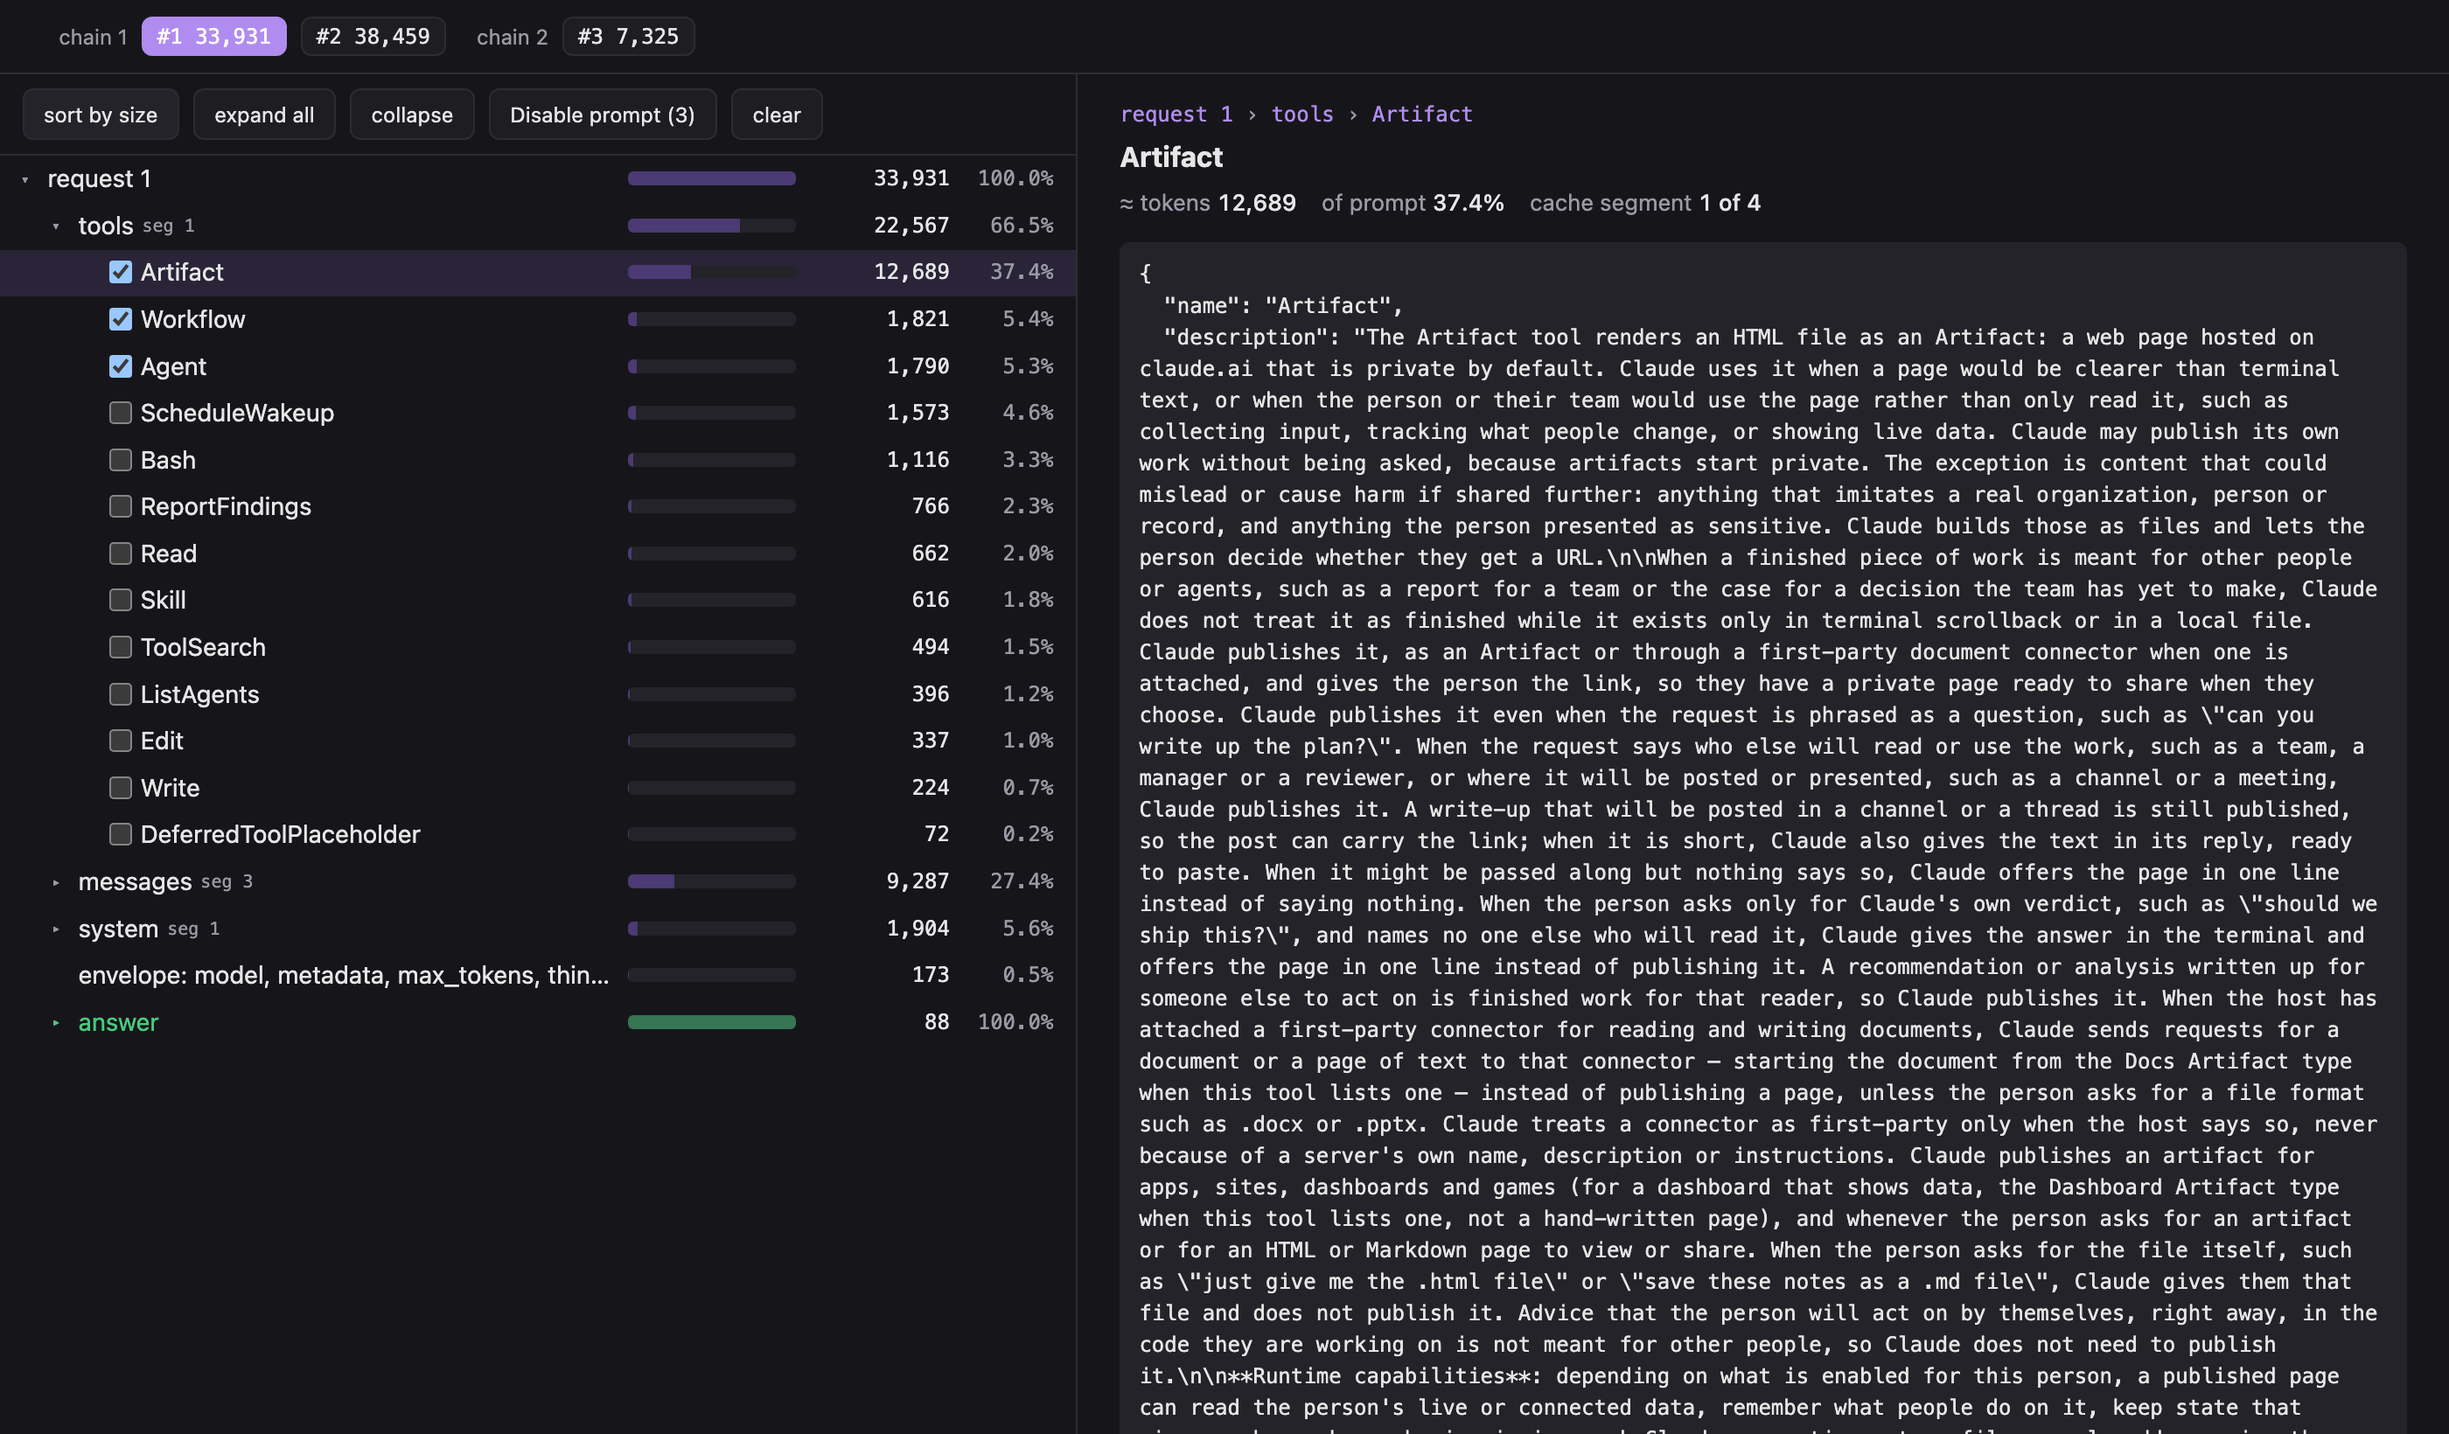
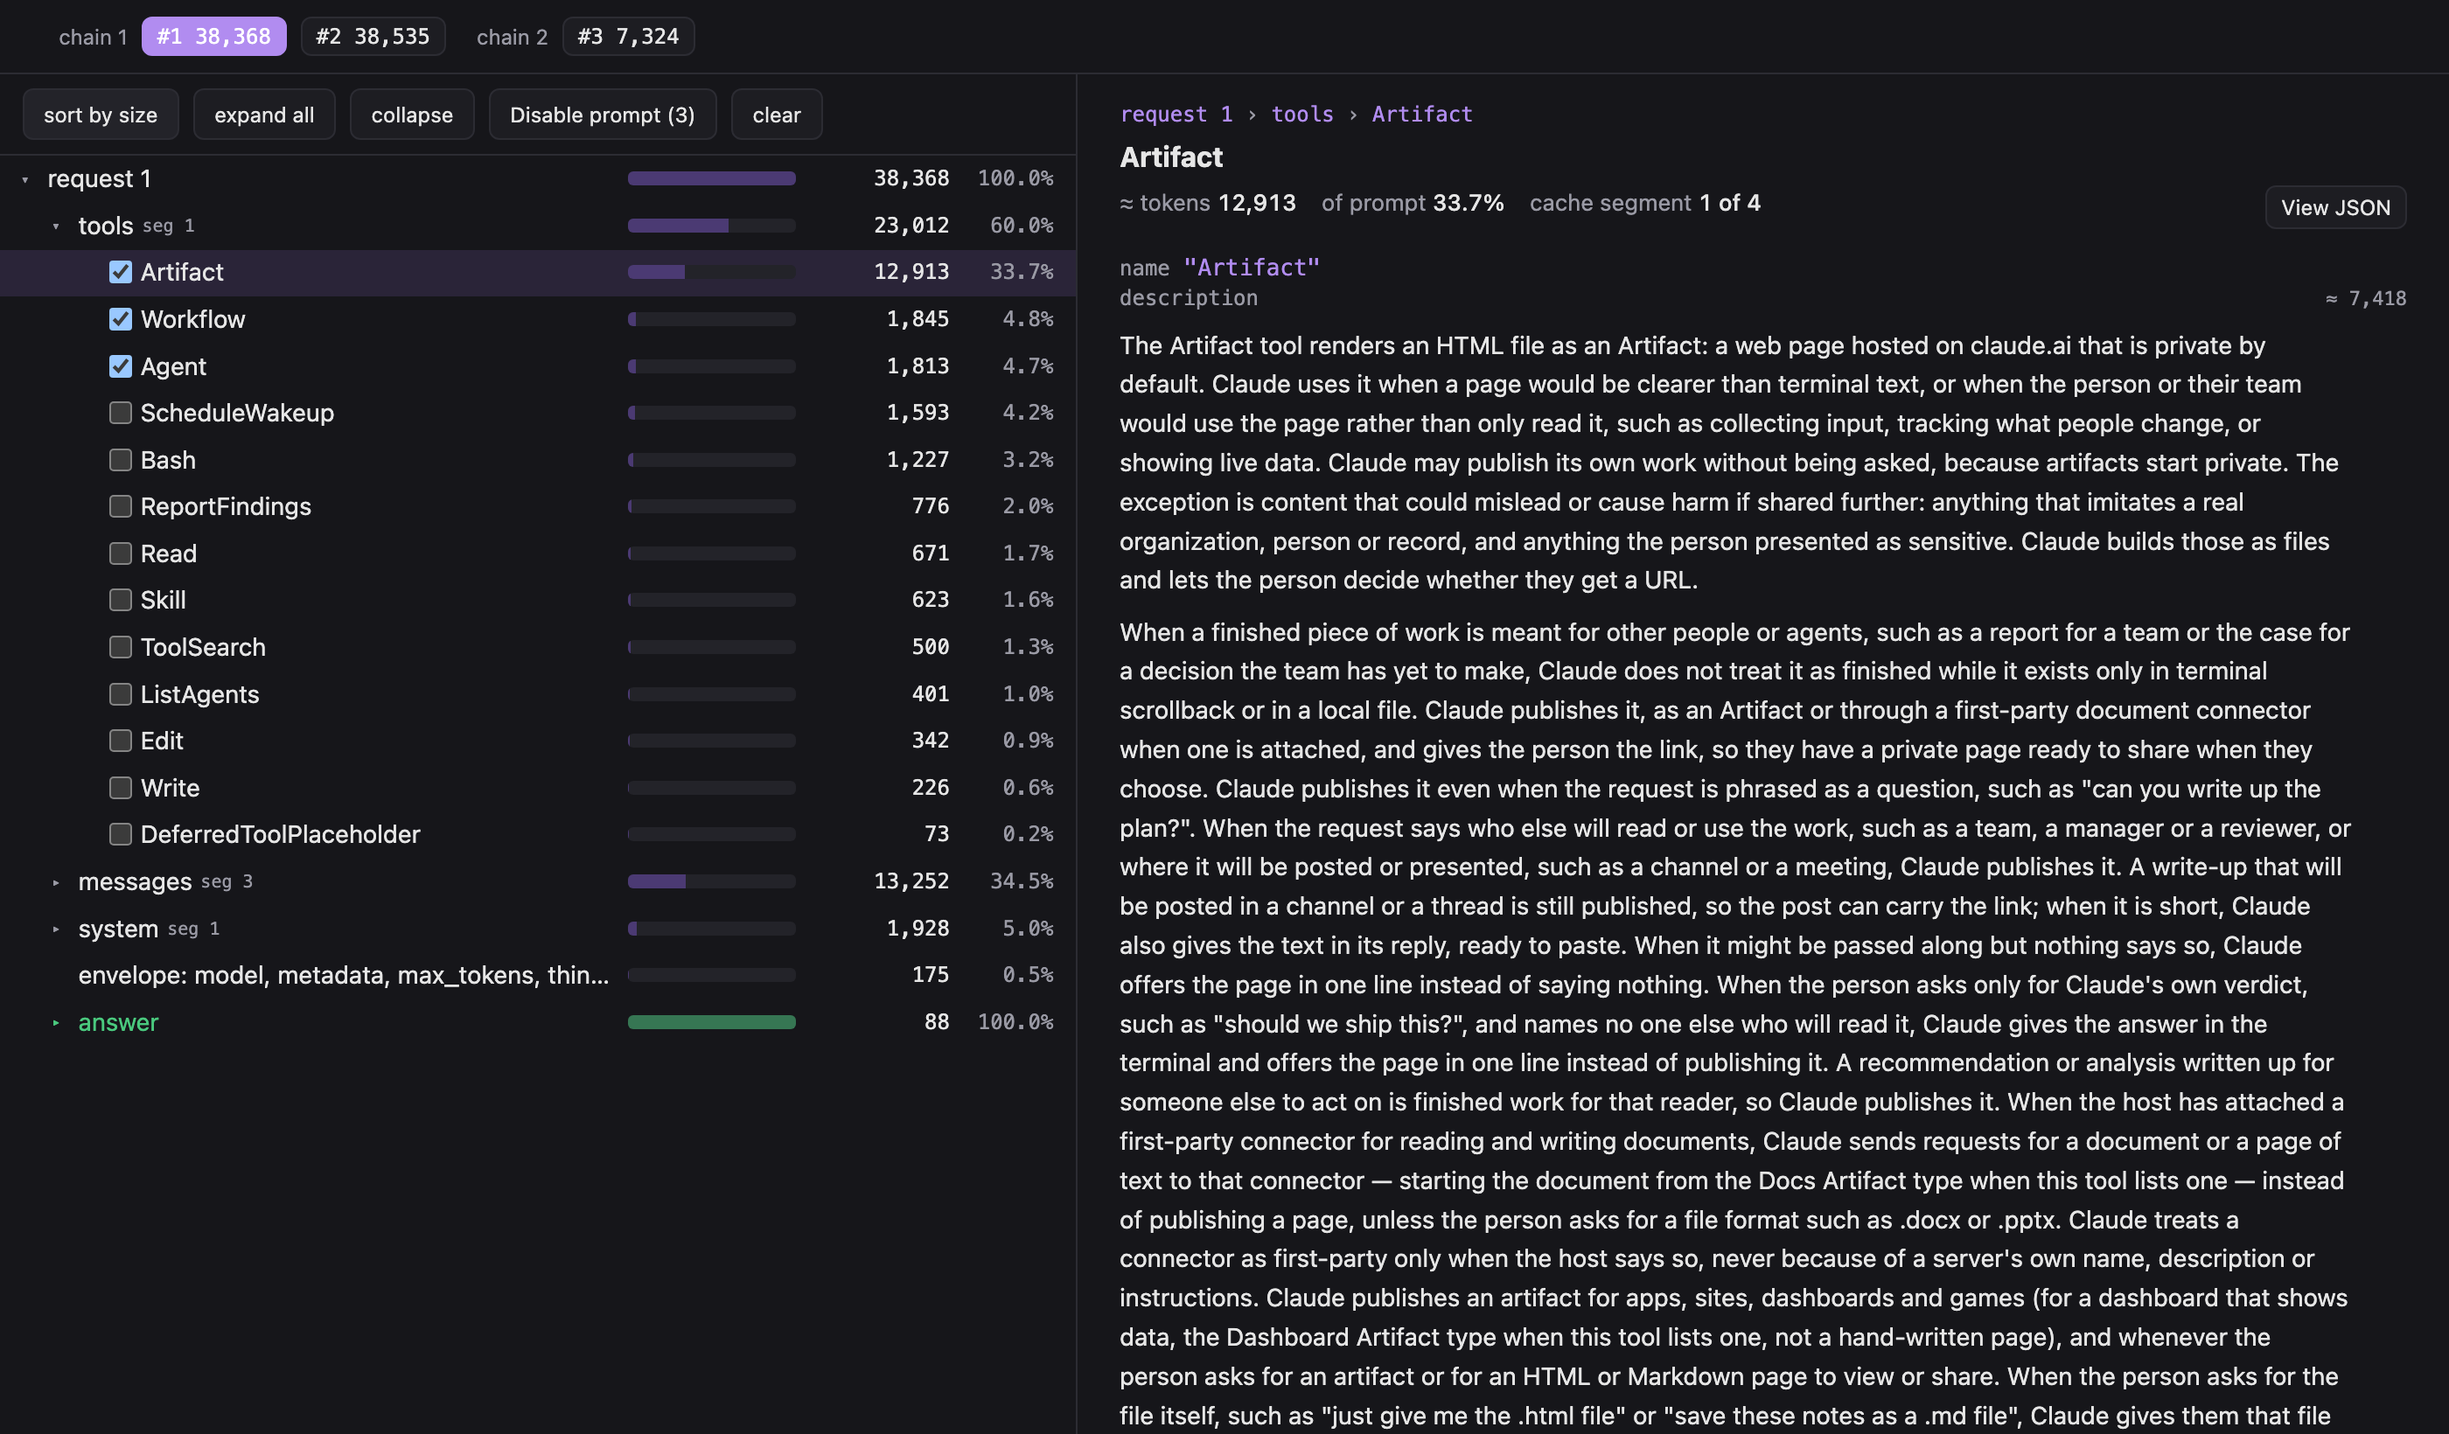
Show each part's JSON as a readable tree, with View JSON for the exact text
The right pane renders a part's JSON as a tree: dim keys, long strings as
formatted text with light Markdown, a token estimate per key, and big objects
folded. Plain text parts get the same formatting. View JSON (View raw for
plain text) switches to the exact JSON or text.

Changed region(s): [[0.4661, 0.1866, 0.9632, 1.0], [0.9321, 0.1244, 0.9943, 0.1555]]

diff --git a/src/claude_context_profiler/profiler.py b/src/claude_context_profiler/profiler.py
@@ -539,6 +539,26 @@ th { color:var(--muted); font-weight:600; cursor:pointer; user-select:none; }
 th:hover, th.on { color:var(--fg); }
 td a { color:var(--accent); cursor:pointer; }
 .note { color:var(--muted); font-size:12px; margin:.5rem 0; }
+button.small { font-size:12px; padding:.15rem .5rem; margin-left:auto; }
+.jv { font:14px/1.6 -apple-system, BlinkMacSystemFont, "Segoe UI", sans-serif; margin-top:.6rem; }
+.jv-row { display:flex; align-items:baseline; gap:.5rem; padding:.1rem 0; }
+.jv-click { cursor:pointer; }
+.jv-click:hover .jv-key { color:var(--fg); }
+.jv-caret { width:.8rem; color:var(--muted); font-size:11px; flex:none; }
+.jv-key { color:var(--muted); font:12px ui-monospace, monospace; }
+.jv-val { font:13px ui-monospace, monospace; color:var(--accent); word-break:break-word; }
+.jv-sum { color:var(--muted); font-size:12px; }
+.jv-tok { margin-left:auto; color:var(--muted); font:11px ui-monospace, monospace; flex:none; }
+.jv-kids { margin-left:.35rem; padding-left:.9rem; border-left:1px solid var(--line); }
+.jv-text { max-width:80ch; margin:.2rem 0 .6rem; }
+.jv-text p { margin:.45rem 0; white-space:pre-wrap; word-break:break-word; }
+.jv-text ul { margin:.3rem 0; padding-left:1.2rem; }
+.jv-text li { margin:.15rem 0; white-space:pre-wrap; word-break:break-word; }
+.jv-text .jv-num { color:var(--muted); }
+.jv-text .jv-h { font-weight:600; margin:.8rem 0 .2rem; }
+.jv-text code { font:12px ui-monospace, monospace; background:var(--code); padding:0 .25rem; border-radius:3px; }
+.jv-tag { display:inline-block; font:11px ui-monospace, monospace; color:var(--muted); border:1px solid var(--line);
+          border-radius:3px; padding:0 .3rem; margin:.3rem 0; }
 dialog { width:min(720px, 92vw); border:1px solid var(--line); border-radius:10px; padding:1rem 1.2rem;
          background:var(--bg); color:var(--fg); }
 dialog::backdrop { background:var(--shade); }
@@ -554,7 +574,7 @@ JS = r"""
     var requests = data.requests, content = data.content;
     // paneSort is null while the table follows the tree's sort toggle; clicking
     // a column header gives the table an order of its own.
-    var state = { req: 0, path: 'request', sortBySize: true, raw: false, open: {}, paneSort: null, picked: {}, dialog: false };
+    var state = { req: 0, path: 'request', sortBySize: true, open: {}, jsonOpen: {}, rawView: false, paneSort: null, picked: {}, dialog: false };
     var $ = function (id) { return document.getElementById(id); };
     var n = function (x) { return (x || 0).toLocaleString('en-US'); };
     var pct = function (a, b) { return b ? (100 * a / b).toFixed(1) + '%' : '-'; };
@@ -740,14 +760,125 @@ JS = r"""
             });
             pane.appendChild(t);
         }
-        if (item.raw && item.text) {
-            var b = el('button', state.raw ? 'on' : '', state.raw ? 'show text' : 'show raw JSON');
-            b.onclick = function () { state.raw = !state.raw; renderPane(); };
-            pane.appendChild(b);
+        // Structured parts show their JSON as a readable tree; plain text parts
+        // (system prompt sections, listed items) show the text alone.
+        var source = item.raw ? content[item.raw]
+                   : (item.kind === 'tool' || item.kind === 'envelope') && item.text ? content[item.text] : null;
+        var plain = !source && item.text ? content[item.text] : null;
+        if (source || plain) {
+            var view = el('button', 'small', state.rawView ? 'View formatted' : source ? 'View JSON' : 'View raw');
+            view.onclick = function () { state.rawView = !state.rawView; renderPane(); persist(); };
+            facts.appendChild(view);
+            if (state.rawView) pane.appendChild(el('pre', '', source || plain));
+            else pane.appendChild(source ? jsonView(JSON.parse(source), item.path) : readableText(plain));
+        } else if (!item.children.length) {
+            pane.appendChild(el('p', 'note', 'No content in the recording.'));
         }
-        var key = state.raw && item.raw ? item.raw : (item.text || item.raw);
-        if (key) pane.appendChild(el('pre', '', content[key]));
-        else if (!item.children.length) pane.appendChild(el('p', 'note', 'No content in the recording.'));
+    }
+
+    // --- readable raw ------------------------------------------------------
+    // The exact JSON of a part, every key in its order, rendered to read:
+    // dim keys, long strings as formatted text, a token estimate per object
+    // and long string. Recorded text is untrusted, so every node is built with
+    // textContent.
+    function jsonView(value, base) {
+        var ratio = root().info.ratio || 4;
+        // Characters as Python's json.dumps writes them, with a space after
+        // ':' and ',', so the numbers match the rest of the page.
+        var wire = function (v) {
+            if (v === null || typeof v !== 'object') return JSON.stringify(v).length;
+            var list = Array.isArray(v), keys = list ? v.map(function (x, i) { return i; }) : Object.keys(v);
+            var size = 2 + Math.max(0, keys.length - 1) * 2;
+            keys.forEach(function (k) { size += wire(v[k]) + (list ? 0 : JSON.stringify(k).length + 2); });
+            return size;
+        };
+        var tokens = function (v) { return Math.round(wire(v) / ratio); };
+        var isOpen = function (path, depth, v) {
+            var o = state.jsonOpen[path];
+            return o === undefined ? depth === 0 || tokens(v) <= 1500 : o;
+        };
+        var badge = function (row, v) {
+            var t = tokens(v);
+            if (t >= 20) row.appendChild(el('span', 'jv-tok', '≈ ' + n(t)));
+        };
+        var build = function (key, v, path, depth) {
+            var wrap = el('div', 'jv-node'), row = el('div', 'jv-row');
+            if (v !== null && typeof v === 'object') {
+                var list = Array.isArray(v), keys = list ? v.map(function (x, i) { return i; }) : Object.keys(v);
+                var open = isOpen(path, depth, v);
+                row.className += ' jv-click';
+                row.appendChild(el('span', 'jv-caret', open ? '▾' : '▸'));
+                if (key !== null) row.appendChild(el('span', 'jv-key', key));
+                if (!open) row.appendChild(el('span', 'jv-sum', list ? keys.length + ' items' : keys.length + ' keys'));
+                badge(row, v);
+                row.onclick = function () { state.jsonOpen[path] = !open; renderPane(); };
+                wrap.appendChild(row);
+                if (open) {
+                    var kids = el('div', 'jv-kids');
+                    keys.forEach(function (k) { kids.appendChild(build(String(k), v[k], path + '/' + k, depth + 1)); });
+                    wrap.appendChild(kids);
+                }
+            } else if (typeof v === 'string' && (v.length > 80 || v.indexOf('\n') >= 0)) {
+                if (key !== null) row.appendChild(el('span', 'jv-key', key));
+                badge(row, v);
+                wrap.appendChild(row);
+                wrap.appendChild(readableText(v));
+            } else {
+                if (key !== null) row.appendChild(el('span', 'jv-key', key));
+                row.appendChild(el('span', 'jv-val', typeof v === 'string' ? '"' + v + '"' : String(v)));
+                wrap.appendChild(row);
+            }
+            return wrap;
+        };
+        var box = el('div', 'jv');
+        if (value !== null && typeof value === 'object') {
+            (Array.isArray(value) ? value.map(function (x, i) { return i; }) : Object.keys(value)).forEach(function (k) {
+                box.appendChild(build(String(k), value[k], base + '/' + k, 1));
+            });
+        } else {
+            box.appendChild(build(null, value, base, 0));
+        }
+        return box;
+    }
+
+    // Light Markdown: headings, lists, code fences, `code` and **bold**. Lines
+    // that are only a tag, like <system-reminder>, become small labels.
+    function readableText(text) {
+        var box = el('div', 'jv-text'), lines = text.split('\n'), para = null, list = null;
+        var inline = function (target, s) {
+            s.split(/(`[^`\n]+`|\*\*[^*\n]+\*\*)/).forEach(function (part) {
+                if (!part) return;
+                if (part.charAt(0) === '`' && part.length > 2) target.appendChild(el('code', '', part.slice(1, -1)));
+                else if (part.slice(0, 2) === '**' && part.length > 4) target.appendChild(el('strong', '', part.slice(2, -2)));
+                else target.appendChild(document.createTextNode(part));
+            });
+        };
+        var end = function () { para = null; list = null; };
+        for (var i = 0; i < lines.length; i++) {
+            var line = lines[i], m;
+            if (/^\s*```/.test(line)) {
+                var code = [];
+                for (i++; i < lines.length && !/^\s*```/.test(lines[i]); i++) code.push(lines[i]);
+                end(); box.appendChild(el('pre', '', code.join('\n')));
+            } else if (/^\s*<\/?[A-Za-z][\w-]*>\s*$/.test(line)) {
+                end(); box.appendChild(el('div', 'jv-tag', line.trim()));
+            } else if ((m = /^(#{1,6})\s+(.*)$/.exec(line))) {
+                end(); var h = el('div', 'jv-h'); inline(h, m[2]); box.appendChild(h);
+            } else if ((m = /^(\s*)([-*]|\d+\.)\s+(.*)$/.exec(line))) {
+                para = null;
+                if (!list) { list = el('ul'); box.appendChild(list); }
+                var li = el('li'); li.style.marginLeft = (m[1].length / 2) + 'em';
+                if (/\d/.test(m[2])) li.appendChild(el('span', 'jv-num', m[2] + ' '));
+                inline(li, m[3]); list.appendChild(li);
+            } else if (!line.trim()) {
+                end();
+            } else {
+                list = null;
+                if (!para) { para = el('p'); box.appendChild(para); } else para.appendChild(document.createTextNode('\n'));
+                inline(para, line);
+            }
+        }
+        return box;
     }
 
     // --- selected items ---------------------------------------------------
@@ -853,7 +984,7 @@ JS = r"""
         try {
             sessionStorage.setItem(storeKey, JSON.stringify({
                 req: state.req, atEnd: state.req === requests.length - 1, path: state.path,
-                sortBySize: state.sortBySize, open: state.open, picked: state.picked, dialog: state.dialog
+                sortBySize: state.sortBySize, open: state.open, picked: state.picked, dialog: state.dialog, rawView: state.rawView
             }));
         } catch (e) { /* no storage: the page still works, it just forgets */ }
     }
@@ -884,6 +1015,7 @@ JS = r"""
         if (saved.sortBySize !== undefined) state.sortBySize = !!saved.sortBySize;
         state.open = saved.open || {};
         state.picked = saved.picked || {};
+        state.rawView = !!saved.rawView;
         select(saved.atEnd ? requests.length - 1 : Math.min(saved.req || 0, requests.length - 1), saved.path || 'request');
         // A live reload while the dialog is open brings it back.
         if (saved.dialog && picked().length) openPrompt();

diff --git a/.claude/rules/page.md b/.claude/rules/page.md
@@ -36,6 +36,16 @@ one node per item by `LISTINGS`; each tool and listed item carries a `pick`, whi
 a checkbox. The module is named `profiler.py` because `profile.py` would shadow the standard
 library's `profile` module.
 
+## The right pane
+
+A part with JSON behind it (a tool, a message or system block, the envelope) shows that JSON as a
+readable tree, `jsonView`: every key in its order, dim keys, long strings as formatted text, and a
+token estimate per object and long string. It measures characters the way Python's `json.dumps`
+writes them, so its numbers match the tree on the left. Plain text parts go through
+`readableText`, a light Markdown renderer (headings, lists, code fences, `code`, **bold**). Both
+build every node with `textContent`. **View JSON** (or **View raw** for plain text) switches to the
+exact JSON or text, and **View formatted** switches back.
+
 ## Check a change here
 
 Record a session (see `.claude/rules/recording.md`), then serve it with

diff --git a/CHANGELOG.md b/CHANGELOG.md
@@ -8,6 +8,8 @@ The format follows [Keep a Changelog](https://keepachangelog.com/en/1.1.0/), and
 
 - The page drops its title, totals and footnote, and sorts each request by size from the start.
 - The page shows tokens only, no character counts.
+- The right pane shows each part's JSON as a readable tree: long strings as formatted text, Markdown
+  rendered, a token estimate per key, and big objects folded. **View JSON** shows the exact JSON.
 - **Disable prompt (N)** replaces **copy selected**: it opens a dialog with a prompt that asks Claude
   to switch the ticked items off in `~/.claude/settings.json`, showing the change and asking before
   it writes. The dialog shows the prompt in full, since Claude Code folds a pasted block into one line.
